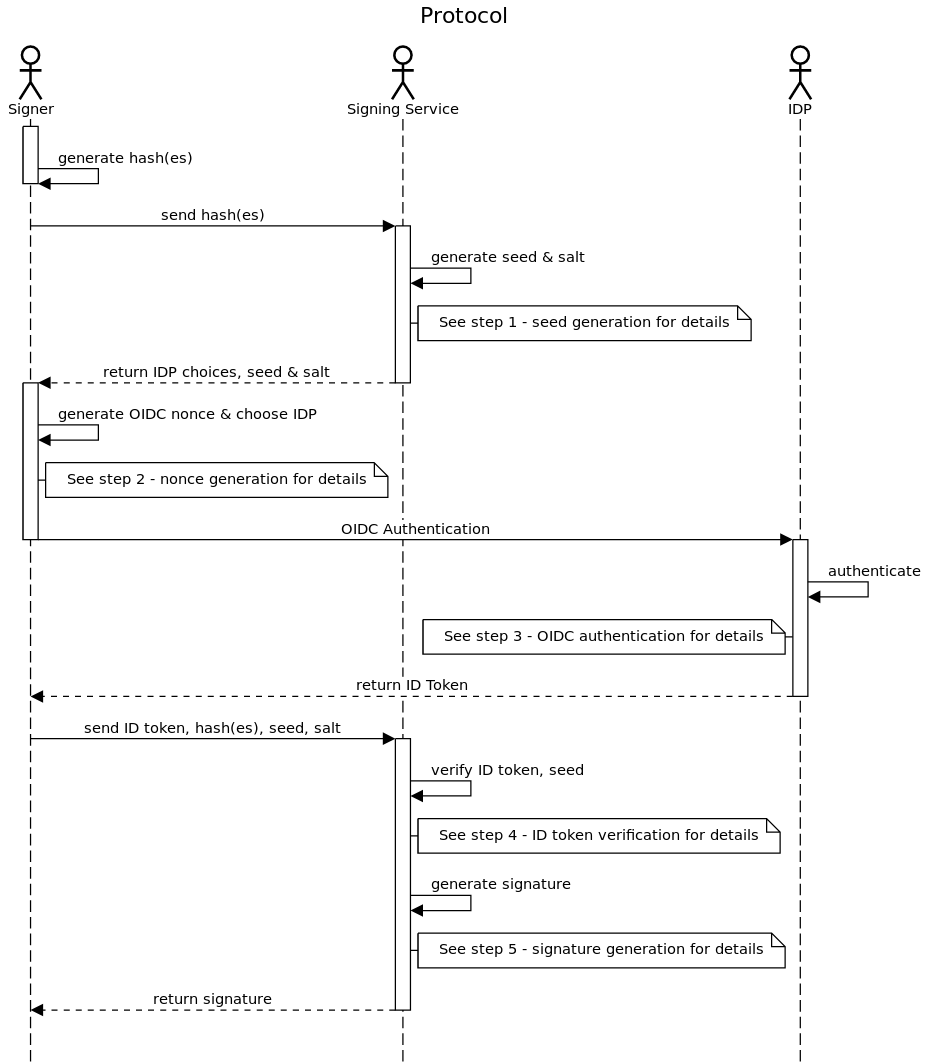
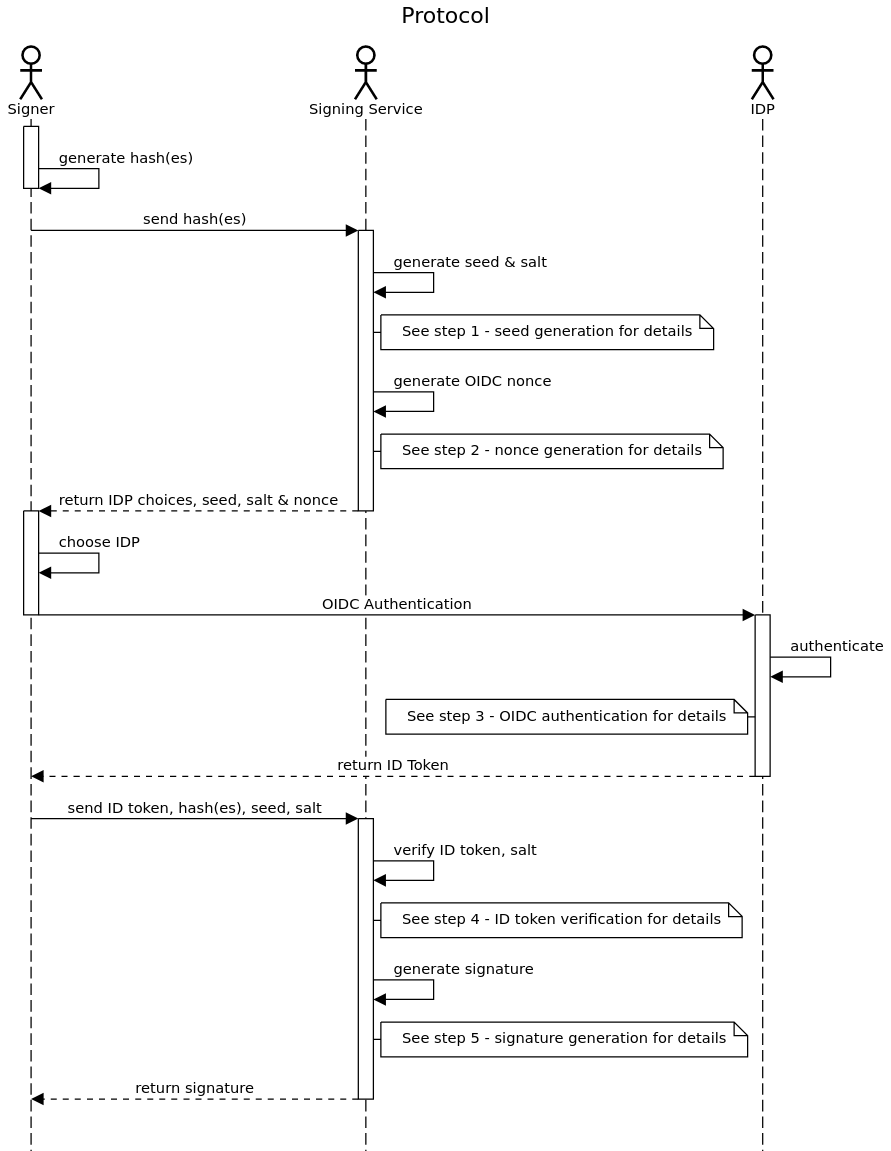
update seed & salt generation image

diff --git a/doc/main/chapters/technical_specification.tex b/doc/main/chapters/technical_specification.tex
@@ -191,7 +191,7 @@ For a sequence diagram of this phase, see figure~\ref{fig:seedgenerationstep}.
 \begin{figure}
     \begin{center}
         \includegraphics[scale=0.5]{images/protocol_step1_seed_generation.png}
-        \caption{Seed generation step}
+        \caption{Seed & salt generation step}
         \label{fig:seedgenerationstep}
     \end{center}
 \end{figure}
@@ -212,7 +212,7 @@ but we decided against it for two reasons:
 \end{itemize}
 
 \begin{figure}
-    \begin{center}
+    \begin{center}[H]
         \includegraphics[scale=0.5]{images/protocol_step2_nonce_generation.png}
         \caption{Nonce generation step}
         \label{fig:noncegenerationstep}
